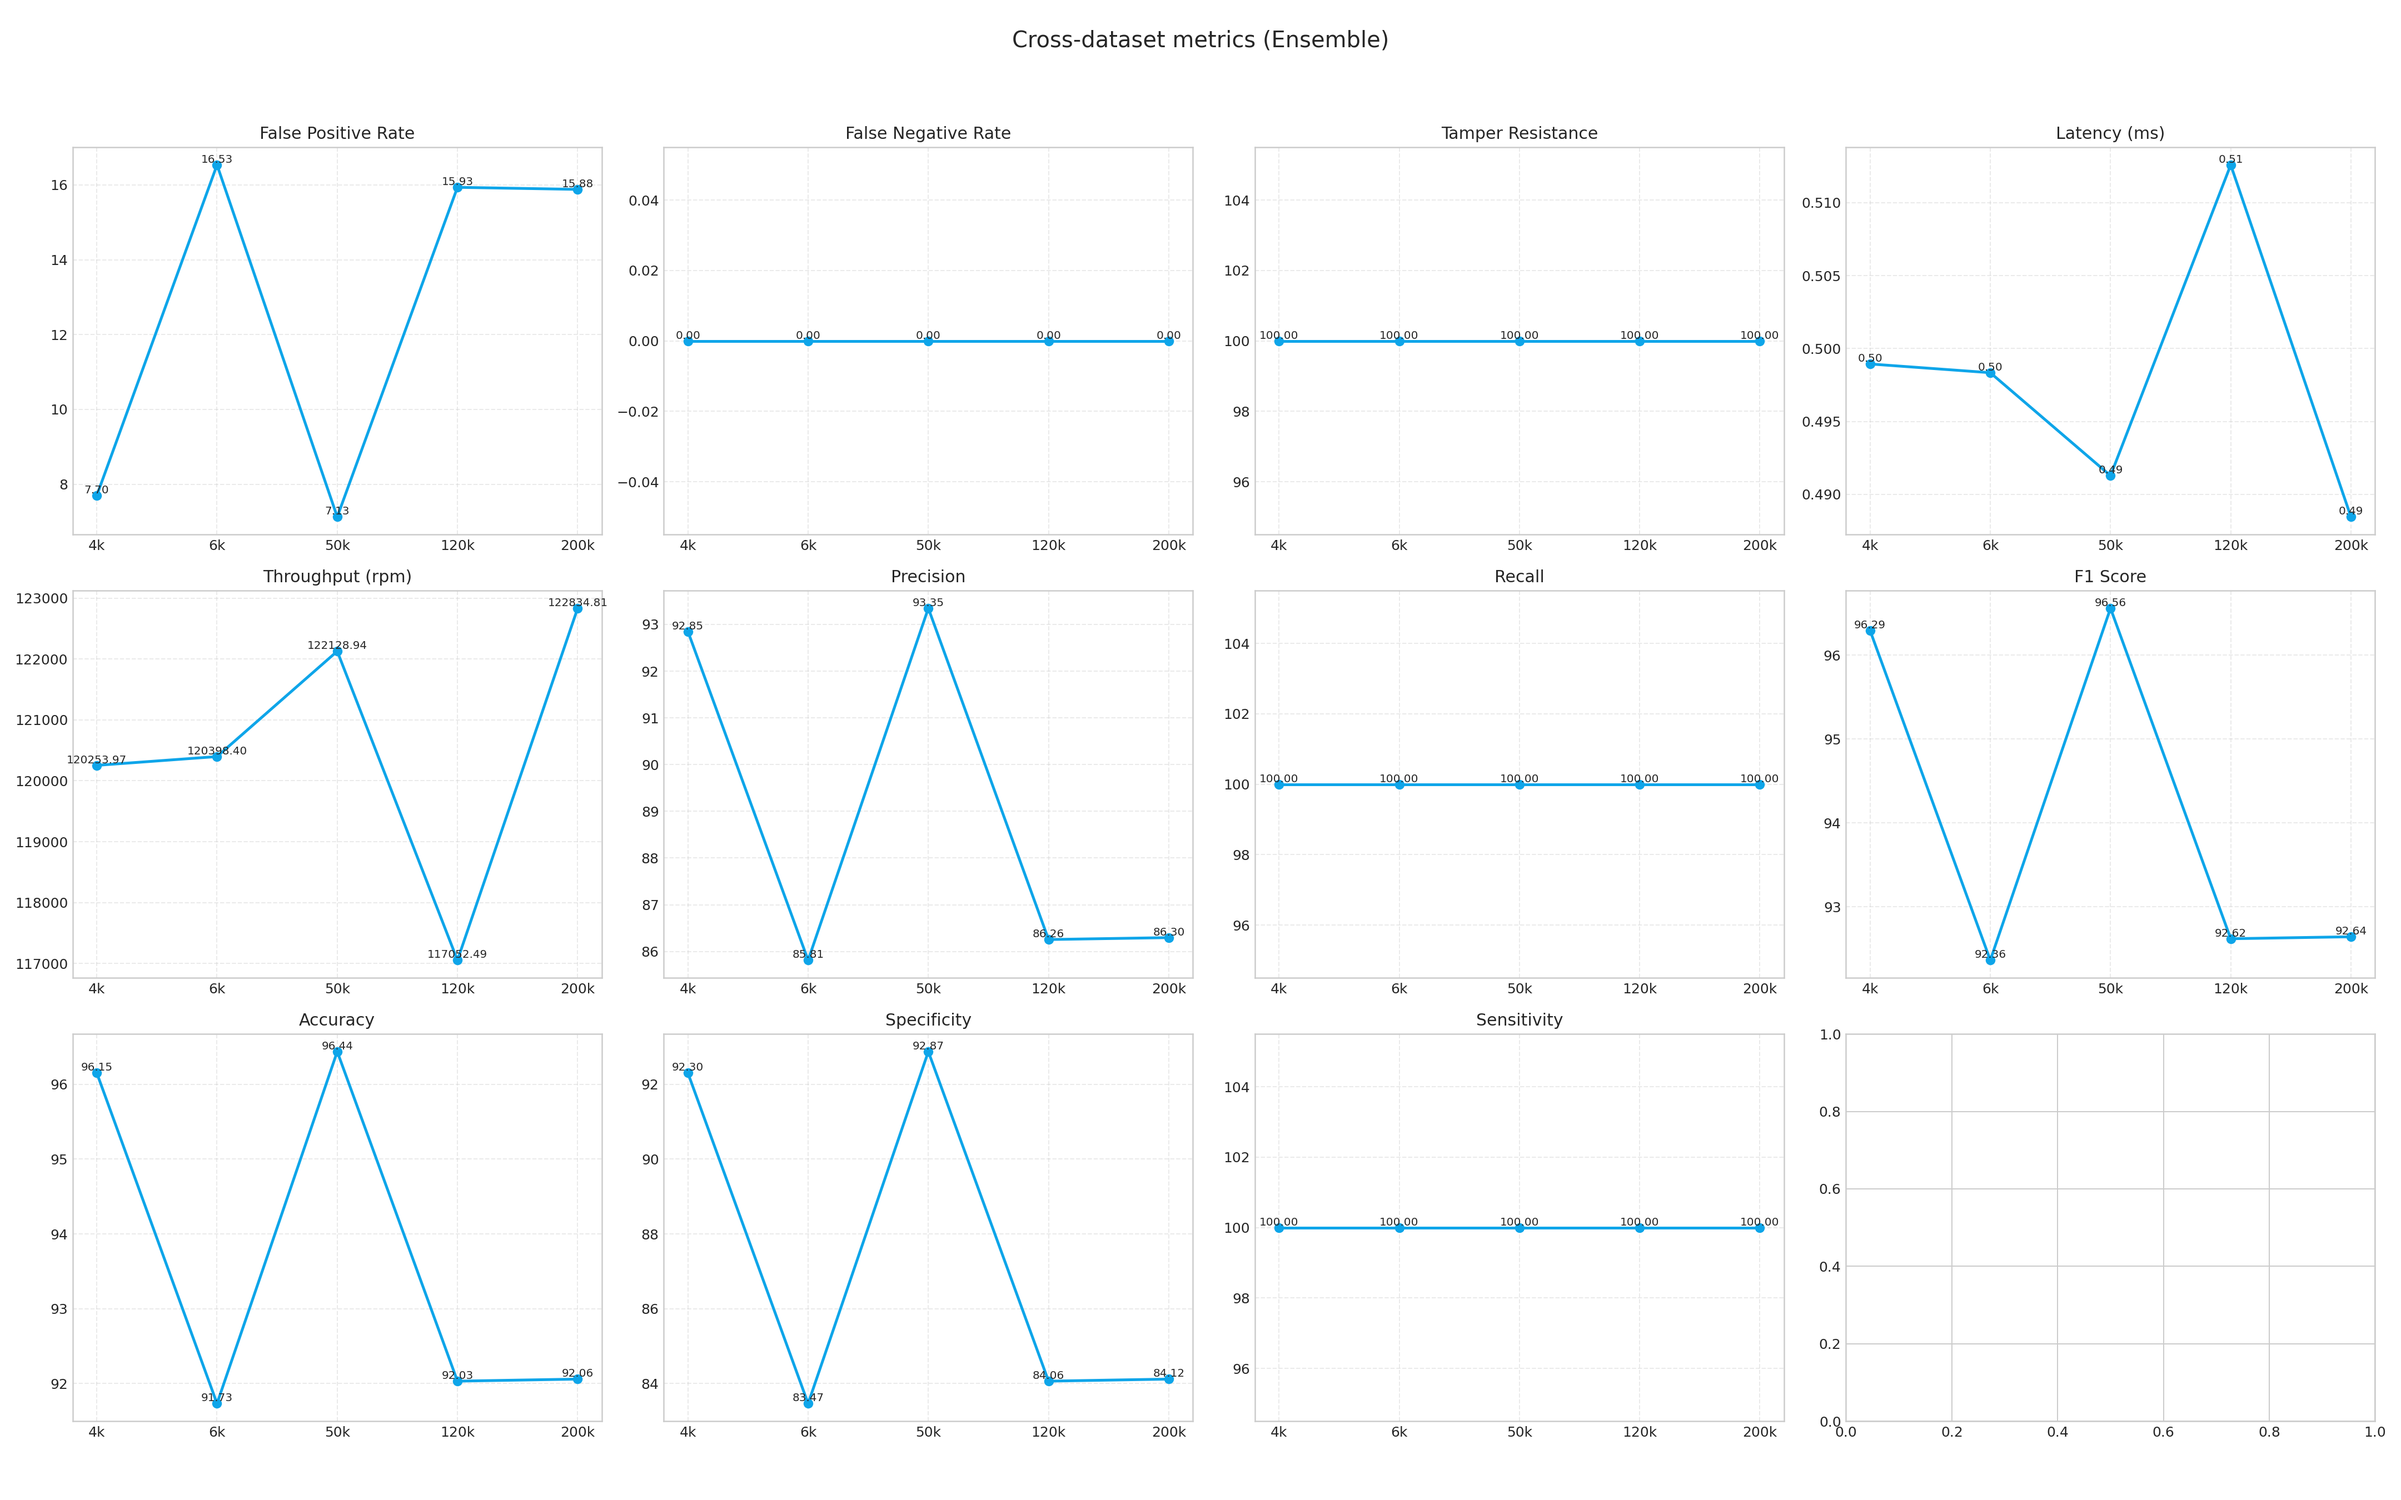
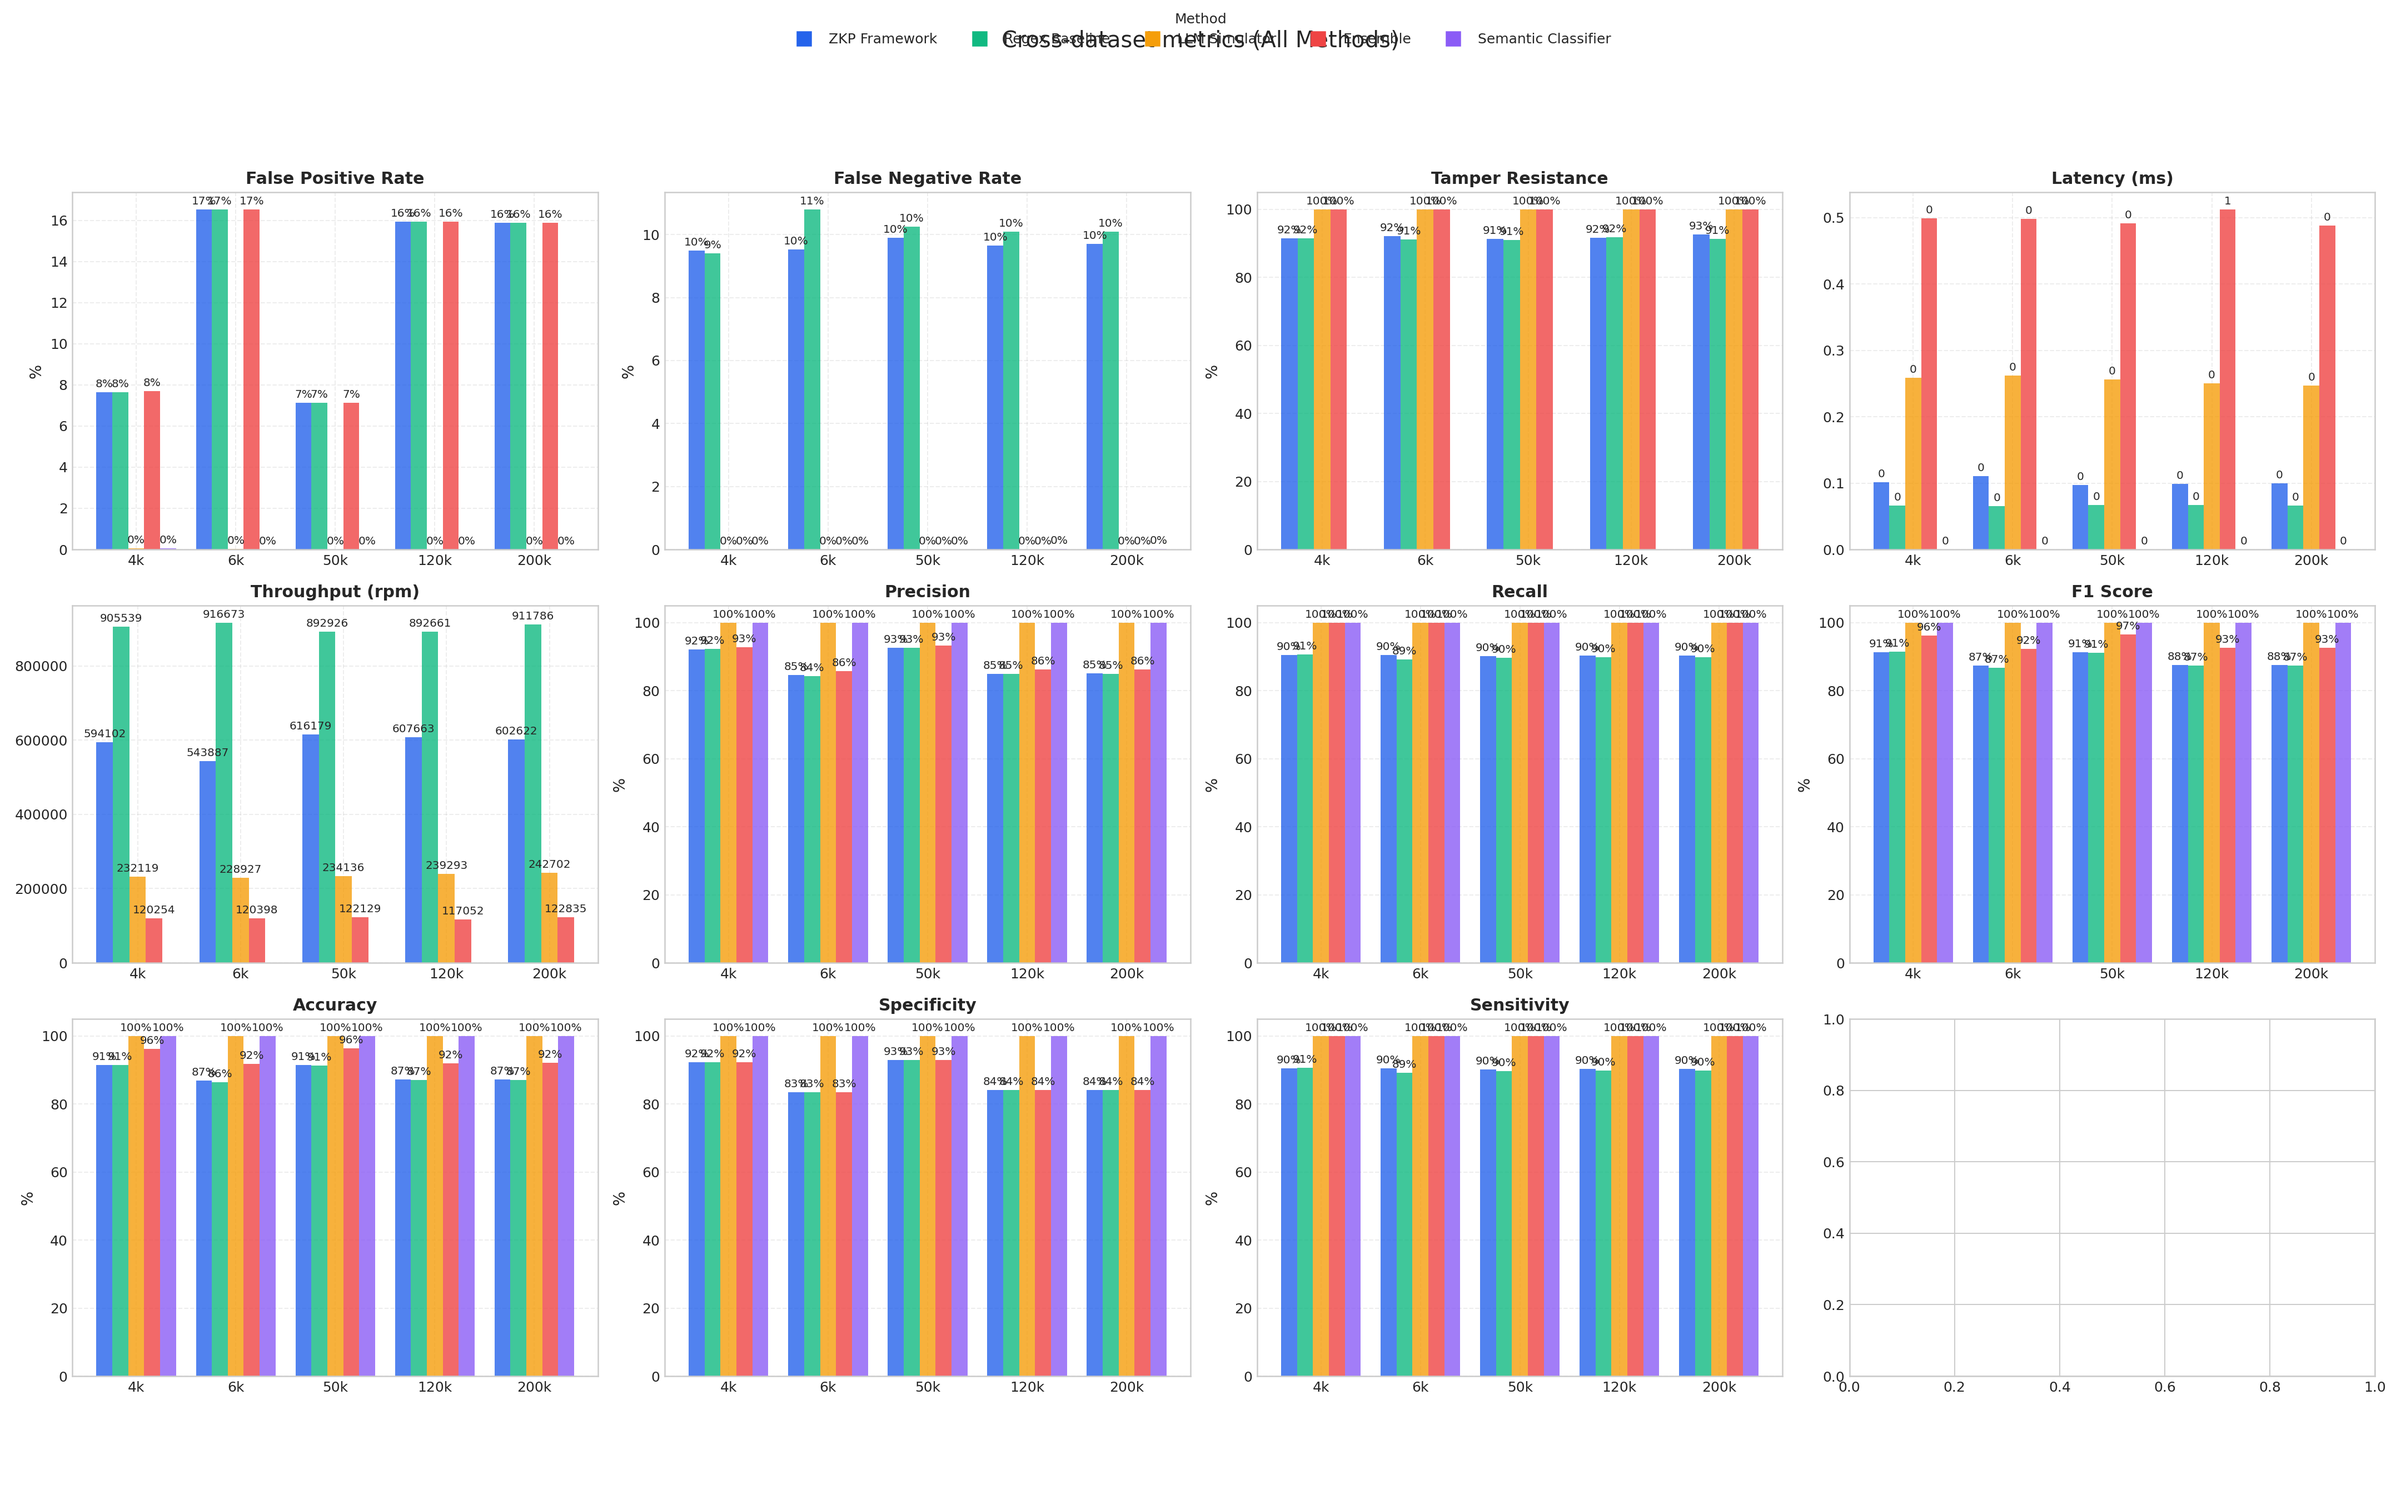
Update cross_dataset_dashboard.png to show all methods with grouped bars

diff --git a/tools/aggregate_across_datasets.py b/tools/aggregate_across_datasets.py
@@ -144,21 +144,64 @@ def main(out_dir: str = "results_cross_dataset") -> None:
         plt.savefig(out_path, dpi=160)
         plt.close()
 
-    # Combined dashboard (3x4 for 11 metrics)
+    # Combined dashboard (3x4 for 11 metrics) - ALL METHODS with grouped bars
     fig, axes = plt.subplots(3, 4, figsize=(24, 15))
-    fig.suptitle('Cross-dataset metrics (Ensemble)', fontsize=16)
+    fig.suptitle('Cross-dataset metrics (All Methods)', fontsize=16)
     axes = axes.flatten()  # Flatten for easier indexing
+    
+    # Color palette for methods
+    palette = ['#2563EB', '#10B981', '#F59E0B', '#EF4444', '#8B5CF6', '#14B8A6', '#F97316']
+    method_colors = {m: palette[i % len(palette)] for i, m in enumerate(present_methods)}
+    
+    # Bar width calculation
+    x = list(range(len(x_labels)))
+    total_width = 0.8
+    bar_width = total_width / max(1, len(present_methods))
+    
     for idx, (mk, mlabel, scale, is_pct) in enumerate(METRICS):
         ax = axes[idx]
-        vals = points_ensemble[mk]
-        plot_vals = [v * scale if pd.notna(v) else float('nan') for v in vals]
-        ax.plot(x_labels, plot_vals, marker='o', linewidth=2, color='#0EA5E9')
-        ax.set_title(mlabel)
-        ax.grid(True, linestyle='--', alpha=0.4)
-        for x, y in zip(x_labels, plot_vals):
-            if pd.notna(y):
-                ax.text(x, y, f"{y:.2f}", ha='center', va='bottom', fontsize=8)
-    plt.tight_layout(rect=[0, 0.03, 1, 0.95])
+        
+        # For each method, get values across datasets
+        for mi, method in enumerate(present_methods):
+            vals = []
+            for _, df in dataset_frames:
+                if method in df.index and mk in df.columns:
+                    val = float(df.loc[method][mk])
+                    vals.append(val * scale if pd.notna(val) else float('nan'))
+                else:
+                    vals.append(float('nan'))
+            
+            # Calculate bar positions
+            offsets = [xi + (mi - len(present_methods)/2) * bar_width + bar_width/2 for xi in x]
+            ax.bar(offsets, vals, width=bar_width, color=method_colors[method], 
+                   label=method if idx == 0 else None, alpha=0.8)
+        
+        ax.set_title(mlabel, fontweight='bold')
+        ax.set_facecolor('white')
+        ax.set_xticks(x)
+        ax.set_xticklabels(x_labels)
+        ax.grid(True, linestyle='--', alpha=0.35)
+        
+        # Y-axis labels and formatting
+        if is_pct:
+            ax.set_ylabel('%')
+            fmt = '%.0f%%'
+        else:
+            fmt = '%.0f'
+        
+        # Value labels on bars
+        for container in ax.containers:
+            try:
+                ax.bar_label(container, fmt=fmt, padding=2, fontsize=8)
+            except Exception:
+                pass
+    
+    # Shared legend for all methods
+    handles = [plt.Line2D([0], [0], marker='s', color=method_colors[m], markersize=10, linewidth=0) 
+               for m in present_methods]
+    fig.legend(handles, present_methods, title='Method', loc='upper center', ncol=min(6, len(present_methods)))
+    
+    plt.tight_layout(rect=[0, 0.06, 1, 0.92])
     fig_path = os.path.join(out_dir, "cross_dataset_dashboard.png")
     plt.savefig(fig_path, dpi=180)
     plt.close(fig)
